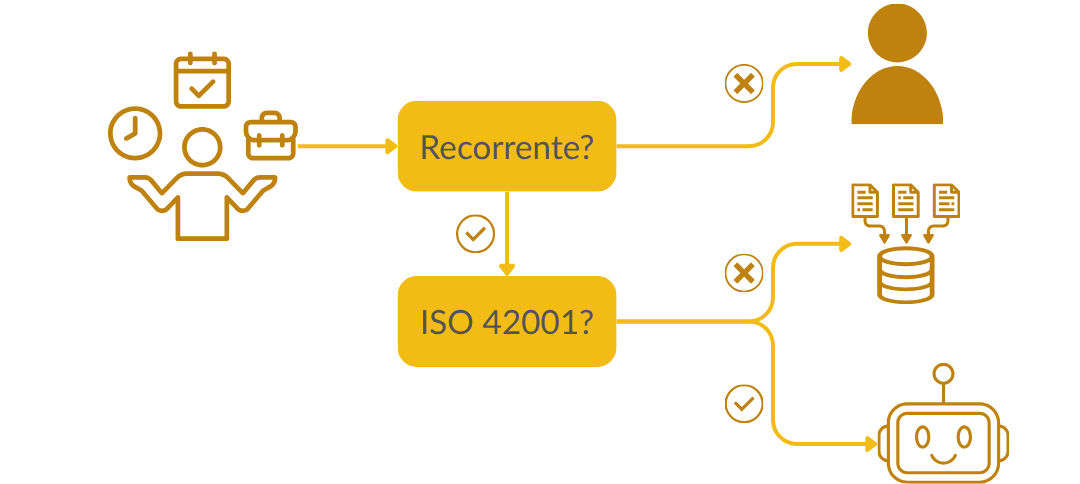
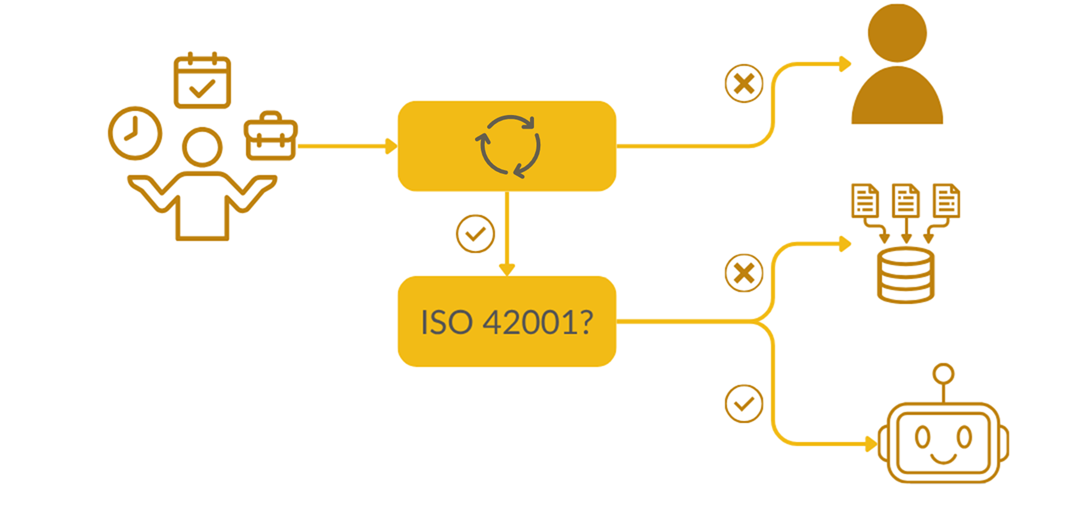
fix: corrige texto no index e atualiza imagem

diff --git a/index.html b/index.html
@@ -111,7 +111,7 @@
                 Você passa horas toda semana fazendo as mesmas tarefas no computador — copiar dados de um lugar para outro, montar relatórios manualmente, responder as mesmas perguntas, acompanhar planilhas que nunca estão atualizadas? Esse tempo todo poderia estar sendo usado para o que realmente importa no seu negócio.
               </p>
               <p>
-                <strong>É exatamente esse problema que eu resolvo.</strong> Com mais de 20 anos de experiência em processos industriais e análise de dados, hoje me dedico a ajudar empresas e profissionais a pararem de desperdiçar tempo com trabalho repetitivo. Identifico o que pode ser reorganizado, simplifico o que está complicado sem necessidade, e então automatifico — usando ferramentas de IA ou não, dependendo do que faz mais sentido para cada caso.
+                <strong>É exatamente esse problema que eu resolvo.</strong> Com mais de 20 anos de experiência em processos industriais e análise de dados, hoje me dedico a ajudar empresas e profissionais a pararem de desperdiçar tempo com trabalho repetitivo. Identifico o que pode ser reorganizado, simplifico o que está complicado sem necessidade, e então automatizo — usando ferramentas de IA ou não, dependendo do que faz mais sentido para cada caso.
               </p>
               <p style="margin-bottom: 0;">
                 Utilizo o <strong>n8n</strong> como principal plataforma de automação: uma ferramenta visual que conecta sistemas, dispara ações automáticas e entrega resultados rápidos — sem precisar de meses de desenvolvimento. O entregável é concreto: <strong>menos trabalho manual, menos erros e mais tempo livre para você focar no que gera valor</strong>.
